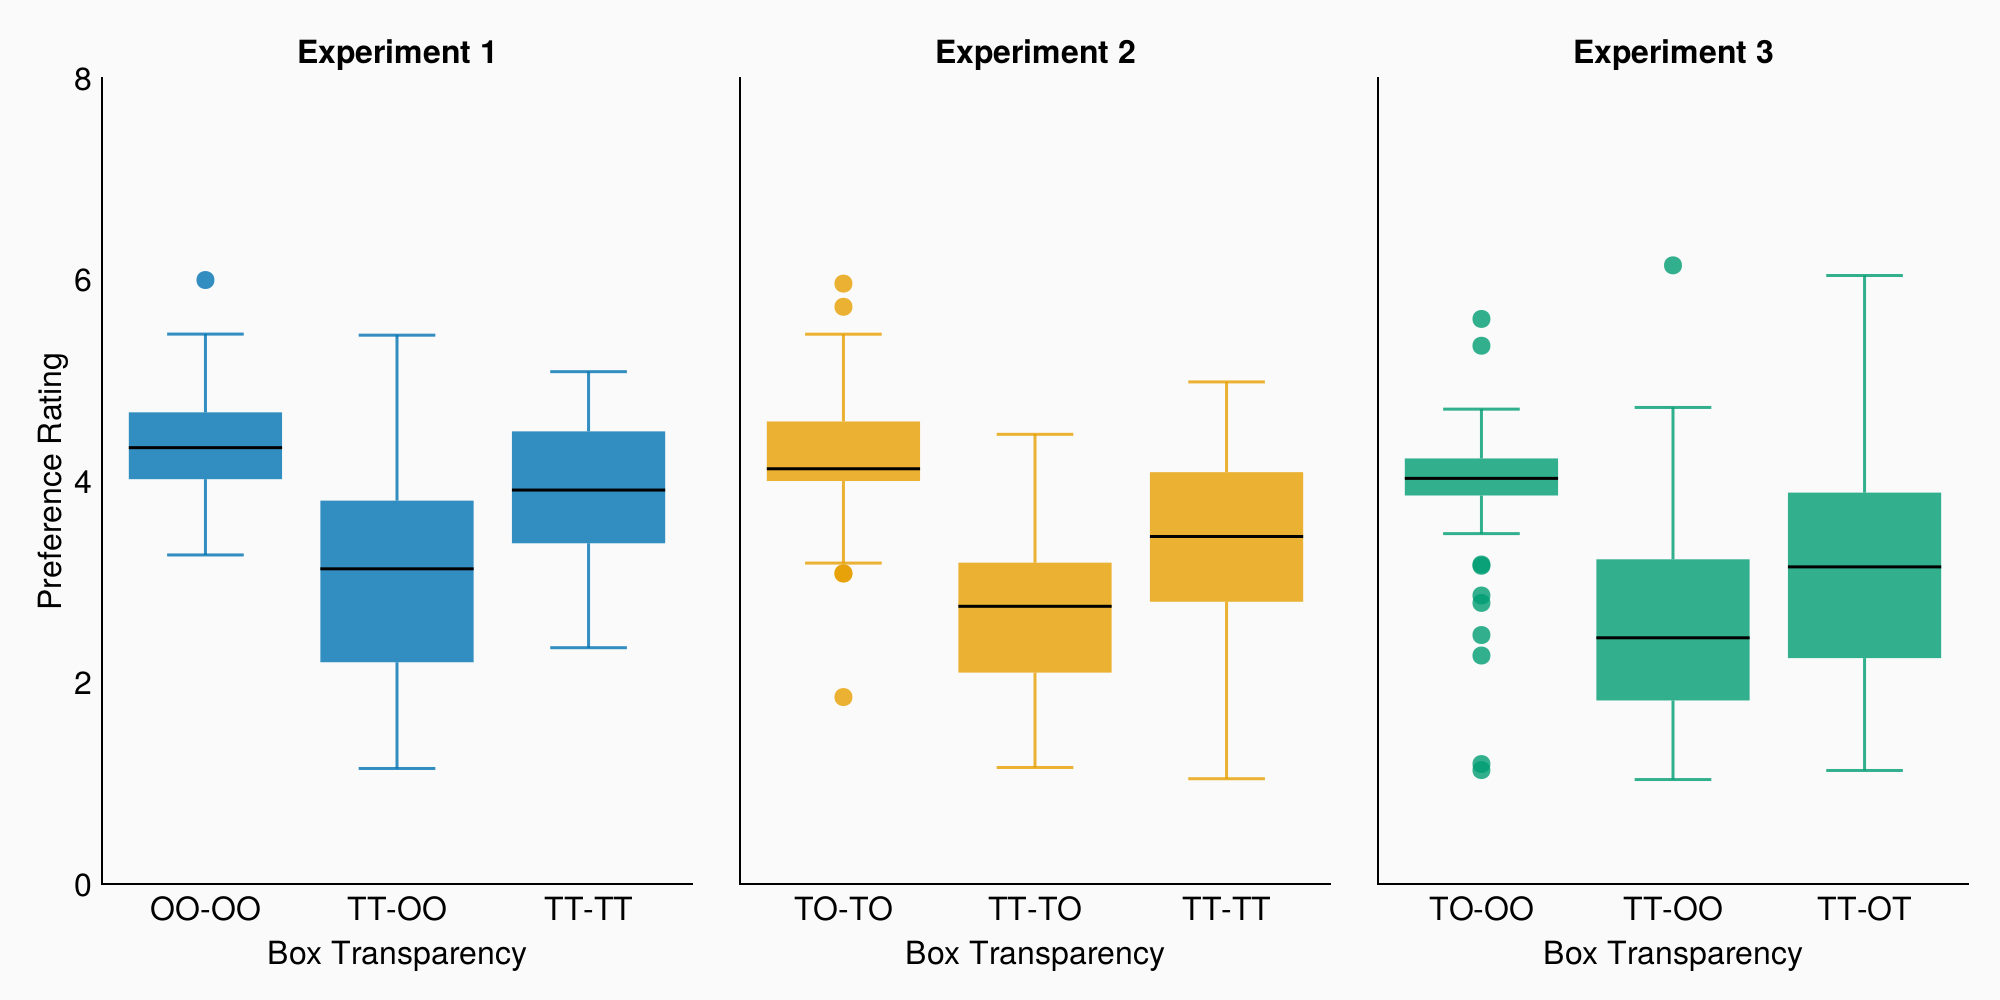
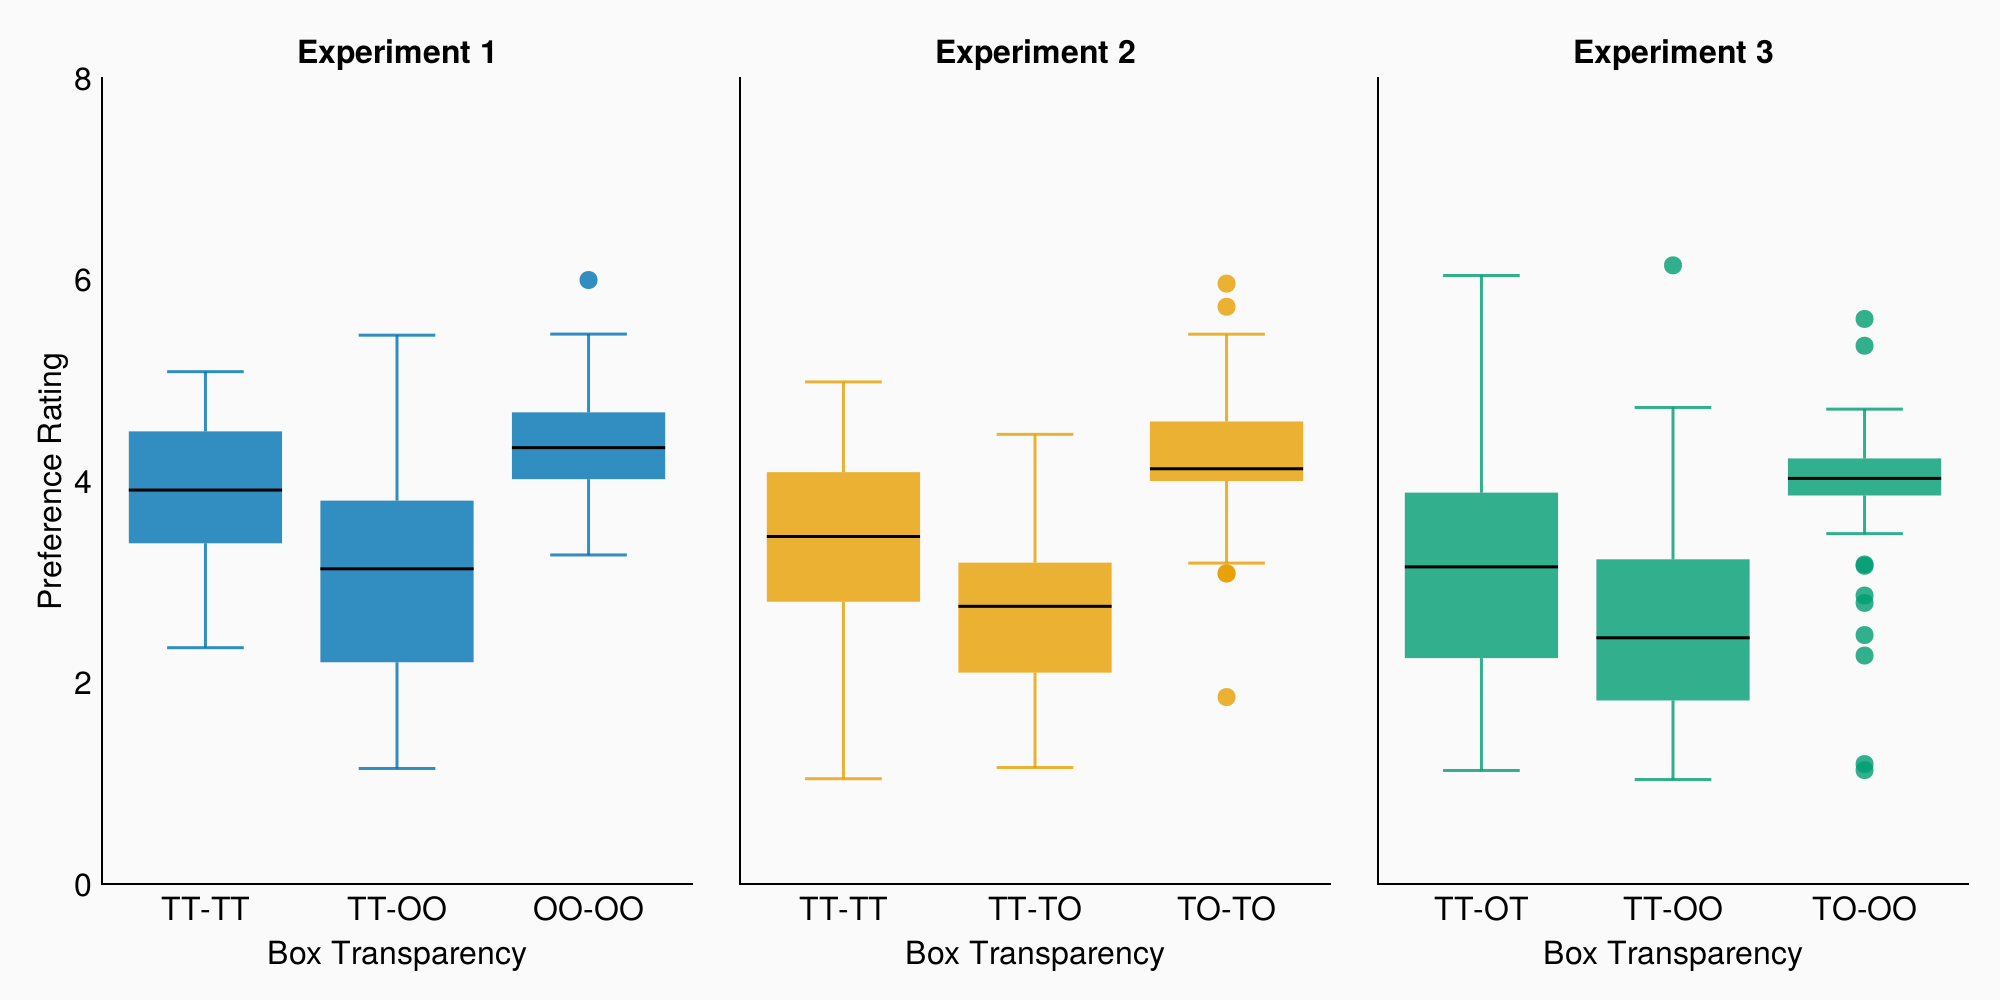
update negation analyses

diff --git a/notebooks/Negation/Experiment_2_model.md b/notebooks/Negation/Experiment_2_model.md
@@ -1,7 +1,7 @@
-─────────────────────────────────────────────────────────────────
-                              Coef.  Std. Error       z  Pr(>|z|)
-─────────────────────────────────────────────────────────────────
-(Intercept)               3.43443     0.10747     31.96    <1e-99
-Box_Transparency: TT-TO  -0.723787    0.0711067  -10.18    <1e-23
-Box_Transparency: TT-TT  -0.0741228   0.0691391   -1.07    0.2837
-─────────────────────────────────────────────────────────────────
+───────────────────────────────────────────────────────────────
+                             Coef.  Std. Error      z  Pr(>|z|)
+───────────────────────────────────────────────────────────────
+(Intercept)               3.35991    0.14051    23.91    <1e-99
+Box_Transparency: TT-TO  -0.649253   0.0992059  -6.54    <1e-10
+Box_Transparency: TO-TO   0.872366   0.152726    5.71    <1e-07
+───────────────────────────────────────────────────────────────

diff --git a/notebooks/Negation/Experiment_1_model.md b/notebooks/Negation/Experiment_1_model.md
@@ -1,7 +1,7 @@
-────────────────────────────────────────────────────────────────
-                              Coef.  Std. Error      z  Pr(>|z|)
-────────────────────────────────────────────────────────────────
-(Intercept)               3.77311     0.113379   33.28    <1e-99
-Box_Transparency: TT-OO  -0.653215    0.0780483  -8.37    <1e-16
-Box_Transparency: TT-TT   0.0821635   0.0567367   1.45    0.1476
-────────────────────────────────────────────────────────────────
+───────────────────────────────────────────────────────────────
+                             Coef.  Std. Error      z  Pr(>|z|)
+───────────────────────────────────────────────────────────────
+(Intercept)               3.85527     0.123553  31.20    <1e-99
+Box_Transparency: TT-OO  -0.735378    0.114351  -6.43    <1e-09
+Box_Transparency: OO-OO   0.488888    0.10695    4.57    <1e-05
+───────────────────────────────────────────────────────────────

diff --git a/notebooks/Negation/Experiment_3_model.md b/notebooks/Negation/Experiment_3_model.md
@@ -1,7 +1,7 @@
-────────────────────────────────────────────────────────────────
-                              Coef.  Std. Error      z  Pr(>|z|)
-────────────────────────────────────────────────────────────────
-(Intercept)               3.18625     0.128928   24.71    <1e-99
-Box_Transparency: TT-OO  -0.591351    0.0654639  -9.03    <1e-18
-Box_Transparency: TT-OT  -0.0968967   0.0750174  -1.29    0.1965
-────────────────────────────────────────────────────────────────
+───────────────────────────────────────────────────────────────
+                             Coef.  Std. Error      z  Pr(>|z|)
+───────────────────────────────────────────────────────────────
+(Intercept)               3.08936     0.166304  18.58    <1e-76
+Box_Transparency: TT-OO  -0.494454    0.108722  -4.55    <1e-05
+Box_Transparency: TO-OO   0.785144    0.151545   5.18    <1e-06
+───────────────────────────────────────────────────────────────
